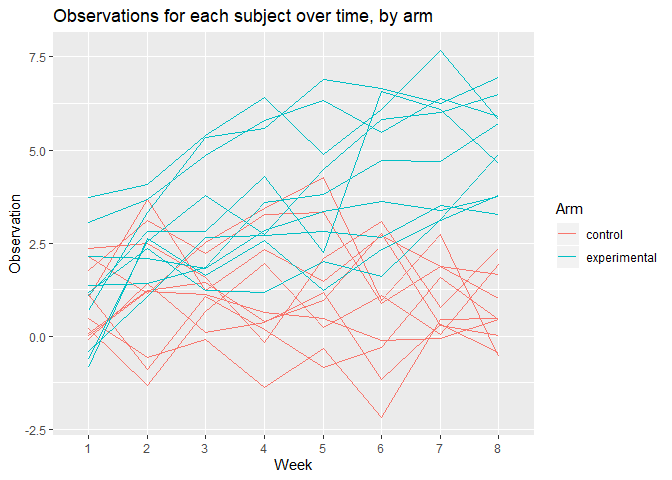
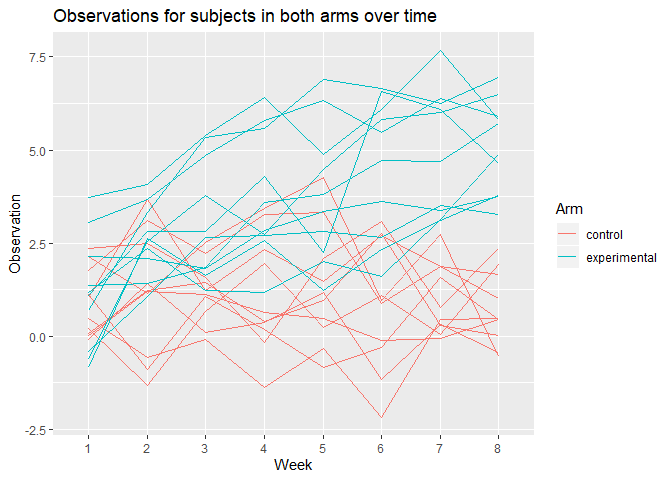
FINAL VERSION

Changed region(s): [[0.2812, 0.0, 0.6562, 0.0625]]

diff --git a/p8105_HW5_rat2134.md b/p8105_HW5_rat2134.md
@@ -6,6 +6,7 @@ Robert Tumasian
 ``` r
 #Load required packages
 library(tidyverse)
+library(broom)
 ```
 
 # Homework 5
@@ -31,13 +32,23 @@ problem_1_function = function(x) {
     ifelse(is.na(x), "virginica", x)
   }
 
+  x
+  
 }
 ```
 
 ``` r
 #Applying function to each column of 'iris_with_missing' using 'map'
 iris_without_missing = map(iris_with_missing, problem_1_function)
+
+is.na(iris_without_missing)
 ```
+
+    ## Sepal.Length  Sepal.Width Petal.Length  Petal.Width      Species 
+    ##        FALSE        FALSE        FALSE        FALSE        FALSE
+
+There are no longer any missing values in the columns after applying
+`problem_1_function` to the `iris_with_missing` dataset.
 
 ## Problem 2
 
@@ -84,7 +95,34 @@ longitudinal_data_tidy =
     mutate(week = str_replace(string = week,
                               pattern = ".*_",
                               replacement = ""))
+
+#Snapshot of data after tidying
+head(longitudinal_data_tidy, 20)
 ```
+
+    ## # A tibble: 20 x 4
+    ##       id arm     week  observation
+    ##    <int> <chr>   <chr>       <dbl>
+    ##  1     1 control 1            0.2 
+    ##  2     1 control 2           -1.31
+    ##  3     1 control 3            0.66
+    ##  4     1 control 4            1.96
+    ##  5     1 control 5            0.23
+    ##  6     1 control 6            1.09
+    ##  7     1 control 7            0.05
+    ##  8     1 control 8            1.94
+    ##  9     2 control 1            1.13
+    ## 10     2 control 2           -0.88
+    ## 11     2 control 3            1.07
+    ## 12     2 control 4            0.17
+    ## 13     2 control 5           -0.83
+    ## 14     2 control 6           -0.31
+    ## 15     2 control 7            1.58
+    ## 16     2 control 8            0.44
+    ## 17     3 control 1            1.77
+    ## 18     3 control 2            3.11
+    ## 19     3 control 3            2.22
+    ## 20     3 control 4            3.26
 
 ``` r
 #Spaghetti plot
@@ -92,7 +130,7 @@ longitudinal_data_tidy %>%
   ggplot(aes(x = week, y = observation, group = id, color = arm)) +
   geom_line() +
   labs(
-    title = "Observations for each subject over time, by arm",
+    title = "Observations for subjects in both arms over time",
     x = "Week",
     y = "Observation",
     color = "Arm"
@@ -101,7 +139,7 @@ longitudinal_data_tidy %>%
 
 ![](p8105_HW5_rat2134_files/figure-gfm/unnamed-chunk-7-1.png)<!-- -->
 
-Overall, we can see that subjects in the experimental arm have higher
+We can see that subjects in the experimental arm tend to have higher
 observation values over time compared to subjects in the control arm. At
 8 weeks, all subjects in the control group have lower observation values
 than those in the experimental group.
@@ -109,6 +147,88 @@ than those in the experimental group.
 ## Problem 3
 
 ``` r
-#Set design elements
-n = 30
+set.seed(142)
+
+regression_simulation = function(n = 30, beta_0 = 2, beta_1) {
+  
+  simulation_data = tibble(
+    x = rnorm(n, mean = 0, sd = 1),
+    y = beta_0 + beta_1 * x + rnorm(n, 0, sqrt(50))
+  )
+  
+  ls_fit = lm(y ~ x, data = simulation_data)
+
+  broom::tidy(ls_fit)[2, c(2,5)]
+
+}
 ```
+
+``` r
+#Generating 10,000 datasets from simple linear model for beta_1 = 0
+simulation_results = 
+  rerun(10000, regression_simulation(30, 2, 0)) %>% 
+  bind_rows()
+```
+
+``` r
+#Repeat dataset generation using beta_1 = 1,2,3,4,5,6
+simulation_results_2 = 
+  tibble(beta_1 = c(1:6)) %>% 
+  mutate(
+    output_lists = map(.x = beta_1, 
+                       ~rerun(10000, regression_simulation(beta_1 = .x))),
+    estimate_dfs = map(output_lists, bind_rows)) %>% 
+  select(-output_lists) %>% 
+  unnest(estimate_dfs)
+```
+
+``` r
+#Plot showing the proportion of times the null was rejected
+simulation_results_2 %>%
+  group_by(beta_1) %>%
+  summarize(sig_p_values = length(which(p.value < 0.05))) %>%
+  ggplot(aes(x = beta_1, y = sig_p_values/10000)) +
+  geom_bar(stat = "identity") +
+  scale_x_discrete(limit = c("1", "2", "3", "4", "5", "6")) +
+  labs(
+    title = "Proportion of times the null was rejected with increasing effect size",
+    x = "Effect Size",
+    y = "Proportion of times the null was rejected"
+  )
+```
+
+![](p8105_HW5_rat2134_files/figure-gfm/unnamed-chunk-11-1.png)<!-- -->
+
+We can see that as effect size increases, the proportion of times the
+null was rejected, or the power, also increases, suggesting that effect
+size and power are positively associated.
+
+``` r
+#Plot showing average estimated effect size vs. true effect size
+simulation_results_2 %>%
+  group_by(beta_1) %>%
+  summarize(avg_beta_1_estimate = mean(estimate),
+            avg_beta_1_estimate_null_rejected = 
+              mean(estimate[which(p.value < 0.05)])) %>%
+  ggplot(aes(x = beta_1)) +
+  geom_line(aes(y = avg_beta_1_estimate, color = "Total"), 
+            size = 1) +
+  geom_line(aes(y = avg_beta_1_estimate_null_rejected, color = "Null Rejected"), 
+            size = 1) +
+  scale_x_discrete(limit = c("1", "2", "3", "4", "5", "6")) +
+  scale_color_discrete(name = "Results") +
+  labs(
+    title = "Average estimated effect size vs. true effect size",
+    x = "True Effect Size",
+    y = "Average Estimated Effect Size")
+```
+
+![](p8105_HW5_rat2134_files/figure-gfm/unnamed-chunk-12-1.png)<!-- -->
+
+As the true effect size moves away from zero, the average estimated
+effect size across tests for which the null was rejected approaches the
+true effect size. This is because more tests will reject the null as
+effect size increases. In addition, the average estimated effect size is
+strictly greater than the true effect size, because the average
+estimated effect size is calculated using only the effect sizes that are
+greater than zero.
